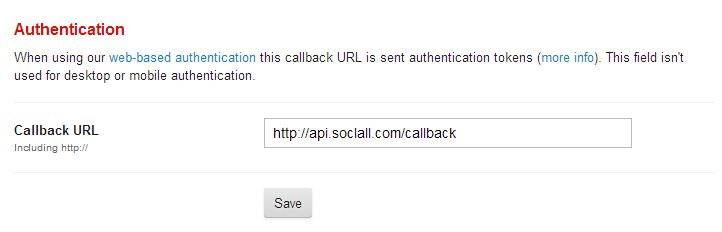
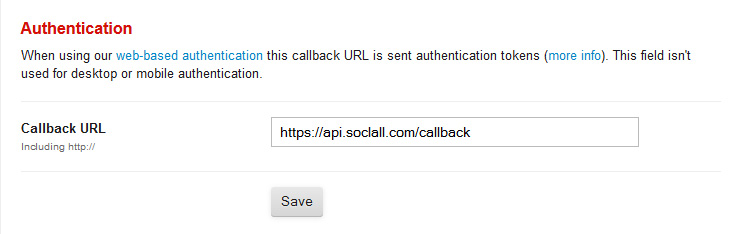
Task #58, #60 - update doc vi

diff --git a/docs/user-guide/google.md b/docs/user-guide/google.md
@@ -10,14 +10,19 @@ __Để đăng kí 1 ứng dụng trên Google, vui lòng làm theo các bước
     ![Google : Consent Screen](/img/google-3-consent-screen.jpg)
     <div class="soclall-br"></div>
 4. Sau đó, chọn mục "Credentials", nhấn nút "Create new Client ID" và điền thông tin bên dưới
-    * Application Type: select "Web application"
+    * Application Type: chọn __Web application__
     * Authorized Javascript Origins: __http://api.soclall.com/__
-    * Authorized Redirect Uris: __http://api.soclall.com/callback__
+    * Authorized Redirect Uris: __https://api.soclall.com/callback__
 5. Sau đó nhấn nút "Create Client ID"
     <div class="soclall-br"></div>
     ![Google : Credentials](/img/google-4-credentials.JPG)
     <div class="soclall-br"></div>
-6. Sau khi tạo thành công Client Id, bạn có thể lấy "Client ID" và "Client Secret" để điền vào SoclAll Google Settings form.
+6. Chọn mục "APIs", tại "API Library", chọn "Google+ API" trong mục "Social APIs".
+7. Sau đó nhấn nút "Enable API".
+    <div class="soclall-br"></div>
+    ![Google : Enable APIs](/img/google-5-apis.jpg)
+    <div class="soclall-br"></div>
+8. Sau khi tạo thành công Client Id, bạn có thể lấy "Client ID" và "Client Secret" để điền vào SoclAll Google Settings form.
     <div class="soclall-br"></div>
     ![Google : Client Info](/img/google-5-client-info.JPG)
     <div class="soclall-br"></div>

diff --git a/docs/user-guide/live.md b/docs/user-guide/live.md
@@ -3,7 +3,8 @@ __Để đăng kí 1 ứng dụng trên Live, vui lòng làm theo các bước s
 1. Đăng nhập vào[Microsoft account](https://account.live.com/) và đi đến trang [Microsoft Developer](https://account.live.com/developers/applications) để tạo ứng dụng
 2. Nhấn nút "Create application", sau đó điền tên ứng dụng và chọn đồng ý ô Term Of Service
 3. Đi đến phần Api Settings và điền vào thông tin bên dưới
-    * Redirect URLs: __http://api.soclall.com/callback__
+    * Redirect URLs: __https://api.soclall.com/callback__
+    * Sau đó, chọn "Add another redirect URL" và điền tiếp: __https://api.soclall.com/callback__
     <div class="soclall-br"></div>
     ![Live : Api Settings Form](/img/live-1-api-settings-form.JPG)
     <div class="soclall-br"></div>

diff --git a/docs/user-guide/facebook.md b/docs/user-guide/facebook.md
@@ -10,10 +10,10 @@ __To register an application on Facebook, please follow all steps below:__
     ![Facebook : Select Any Category](/img/facebook-2-select-any-category.JPG)
     <div class="soclall-br"></div>
 4. Nhấn nút "Skip Quick Start" Và đi đến trang "App Setting".
-5. Chọn mục "Settings", Và điền thông tin bên dưới:
+5. Chọn mục "Settings", nhấn nút "+ Add Platform"  Và điền thông tin bên dưới:
     * App Domains: __api.soclall.com__
     * Contact Email: __(your email)__
-    * Site URL: __http://api.soclall.com/callback__  
+    * Site URL: __https://api.soclall.com/callback__  
 
     ![Facebook : Setting Page](/img/facebook-3-setting-page.JPG)
     <div class="soclall-br"></div>

diff --git a/docs/user-guide/twitter.md b/docs/user-guide/twitter.md
@@ -3,7 +3,7 @@ __Để đăng kí 1 ứng dụng trên Twitterter, vui lòng làm theo các bư
 1. Đăng nhập vào [Twitter](https://www.twitter.com/) và đi đến trang [Twitter App](http://apps.twitter.com/) để tạo ứng dụng.
 2. Ấn nút "Create New App" và điền thông tin tạo ứng dụng như bên dưới
     * Website: __http://api.soclall.com/__
-    * Callback URL: __http://api.soclall.com/callback__
+    * Callback URL: __https://api.soclall.com/callback__
 3. Sau đó click chọn ô Agreement và ấn nút "Create your Twitter application"
     <div class="soclall-br"></div>
     ![Twitter : Create App Form](/img/twitter-1-create-app-form.jpg)

diff --git a/docs/user-guide/reddit.md b/docs/user-guide/reddit.md
@@ -3,7 +3,7 @@ __Để đăng kí 1 ứng dụng trên Reddit, vui lòng làm theo các bước
 1. Đăng nhập vào [Reddit](https://www.reddit.com/) và đi đến trang [Reddit Apps](https://www.reddit.com/prefs/apps/) và tạo ứng dụng
 2. Nhấn nút "are you a developer? create an app..." và điền vào thông tin bên dưới
     * Chọn "web app"
-    * redirect uri: __http://api.soclall.com/callback__
+    * redirect uri: __https://api.soclall.com/callback__
     <div class="soclall-br"></div>
     ![Reddit : Create Form](/img/reddit-1-create-form.JPG)
     <div class="soclall-br"></div>

diff --git a/docs/user-guide/foursquare.md b/docs/user-guide/foursquare.md
@@ -2,7 +2,7 @@ __Để đăng kí 1 ứng dụng trên Foresquare, vui lòng làm theo các bư
 
 1. Đăng nhập vào [Foursquare](https://developer.foursquare.com/) và đi đến trang [Foursquare App](https://foursquare.com/developers/register) để tạo ứng dụng
 2. Nhấn nút "Create A New App" và điền đầy đủ thông tin theo dưới đây
-    * Redirect URI(s): __http://api.soclall.com/callback__
+    * Redirect URI(s): __https://api.soclall.com/callback__
     
     <div class="soclall-br"></div>
     ![Foursquare : Create Form](/img/foursquare-1-create-form.png)

diff --git a/docs/user-guide/plurk.md b/docs/user-guide/plurk.md
@@ -3,7 +3,7 @@ __Để đăng kí 1 ứng dụng trên Plurk, vui lòng làm theo các bước 
 1.  Đăng nhập vào [Plurk](http://www.plurk.com/) và đi tới trang [Plurk App](http://www.plurk.com/PlurkApp) để tạo ứng dụng
 2. ấn nút "Create a new Plurk App" Và điền thông tin bên dưới
     * App type: chọn "Third-party web site intergration"
-    * OAuth callback: __http://api.soclall.com/callback__
+    * OAuth callback: __https://api.soclall.com/callback__
     
     <div class="soclall-br"></div>
     ![Plurk : Create Form](/img/plurk-1-create-form.JPG)

diff --git a/docs/user-guide/github.md b/docs/user-guide/github.md
@@ -2,7 +2,7 @@ __Để đăng kí 1 ứng dụng trên GitHub, vui lòng làm theo các bước
 
 1. Đăng nhập vào [GitHub](https://github.com/) và đi đến trang [GitHub App](https://github.com/settings/applications) để tạo ứng dụng
 2. Nhấn nút "Register new application" và điền thông tin theo mẫu dưới đây
-    * Authorization callback URL: __http://api.soclall.com/callback__
+    * Authorization callback URL: __https://api.soclall.com/callback__
     
     <div class="soclall-br"></div>
     ![GitHub : Create Form](/img/github-1-create-form.png)

diff --git a/docs/user-guide/tumblr.md b/docs/user-guide/tumblr.md
@@ -2,7 +2,7 @@ __Để đăng kí 1 ứng dụng trên Tumblr, vui lòng làm theo các bước
 
 1. Đăng nhập vào [Tumblr](https://www.tumblr.com/) và đi đến trang [Tumblr Apps](https://www.tumblr.com/oauth/apps) để tạo ứng dụng
 2. Nhấn nút "+ Register application" và điền vào thông tin bên dưới 
-    * Default callback URL: __http://api.soclall.com/callback__
+    * Default callback URL: __https://api.soclall.com/callback__
     
     <div class="soclall-br"></div>
     ![Tumblr : Register Form](/img/tumblr-1-register-form.jpg)

diff --git a/docs/user-guide/lastfm.md b/docs/user-guide/lastfm.md
@@ -6,7 +6,7 @@ __Để đăng kí 1 ứng dụng trên Last.fm, vui lòng làm theo các bướ
     ![Last.fm : Create Form](/img/lastfm-1-create-form.jpg)
     <div class="soclall-br"></div>
 3. Sau khi tạo thành công ứng dụng, chọn phần Authentication session, điền callback url và bấm save
-    * Callback URL: __http://api.soclall.com/callback__
+    * Callback URL: __https://api.soclall.com/callback__
     <div class="soclall-br"></div>
     ![Last.fm : Update Callback](/img/lastfm-2-update-callback.JPG)
     <div class="soclall-br"></div>
